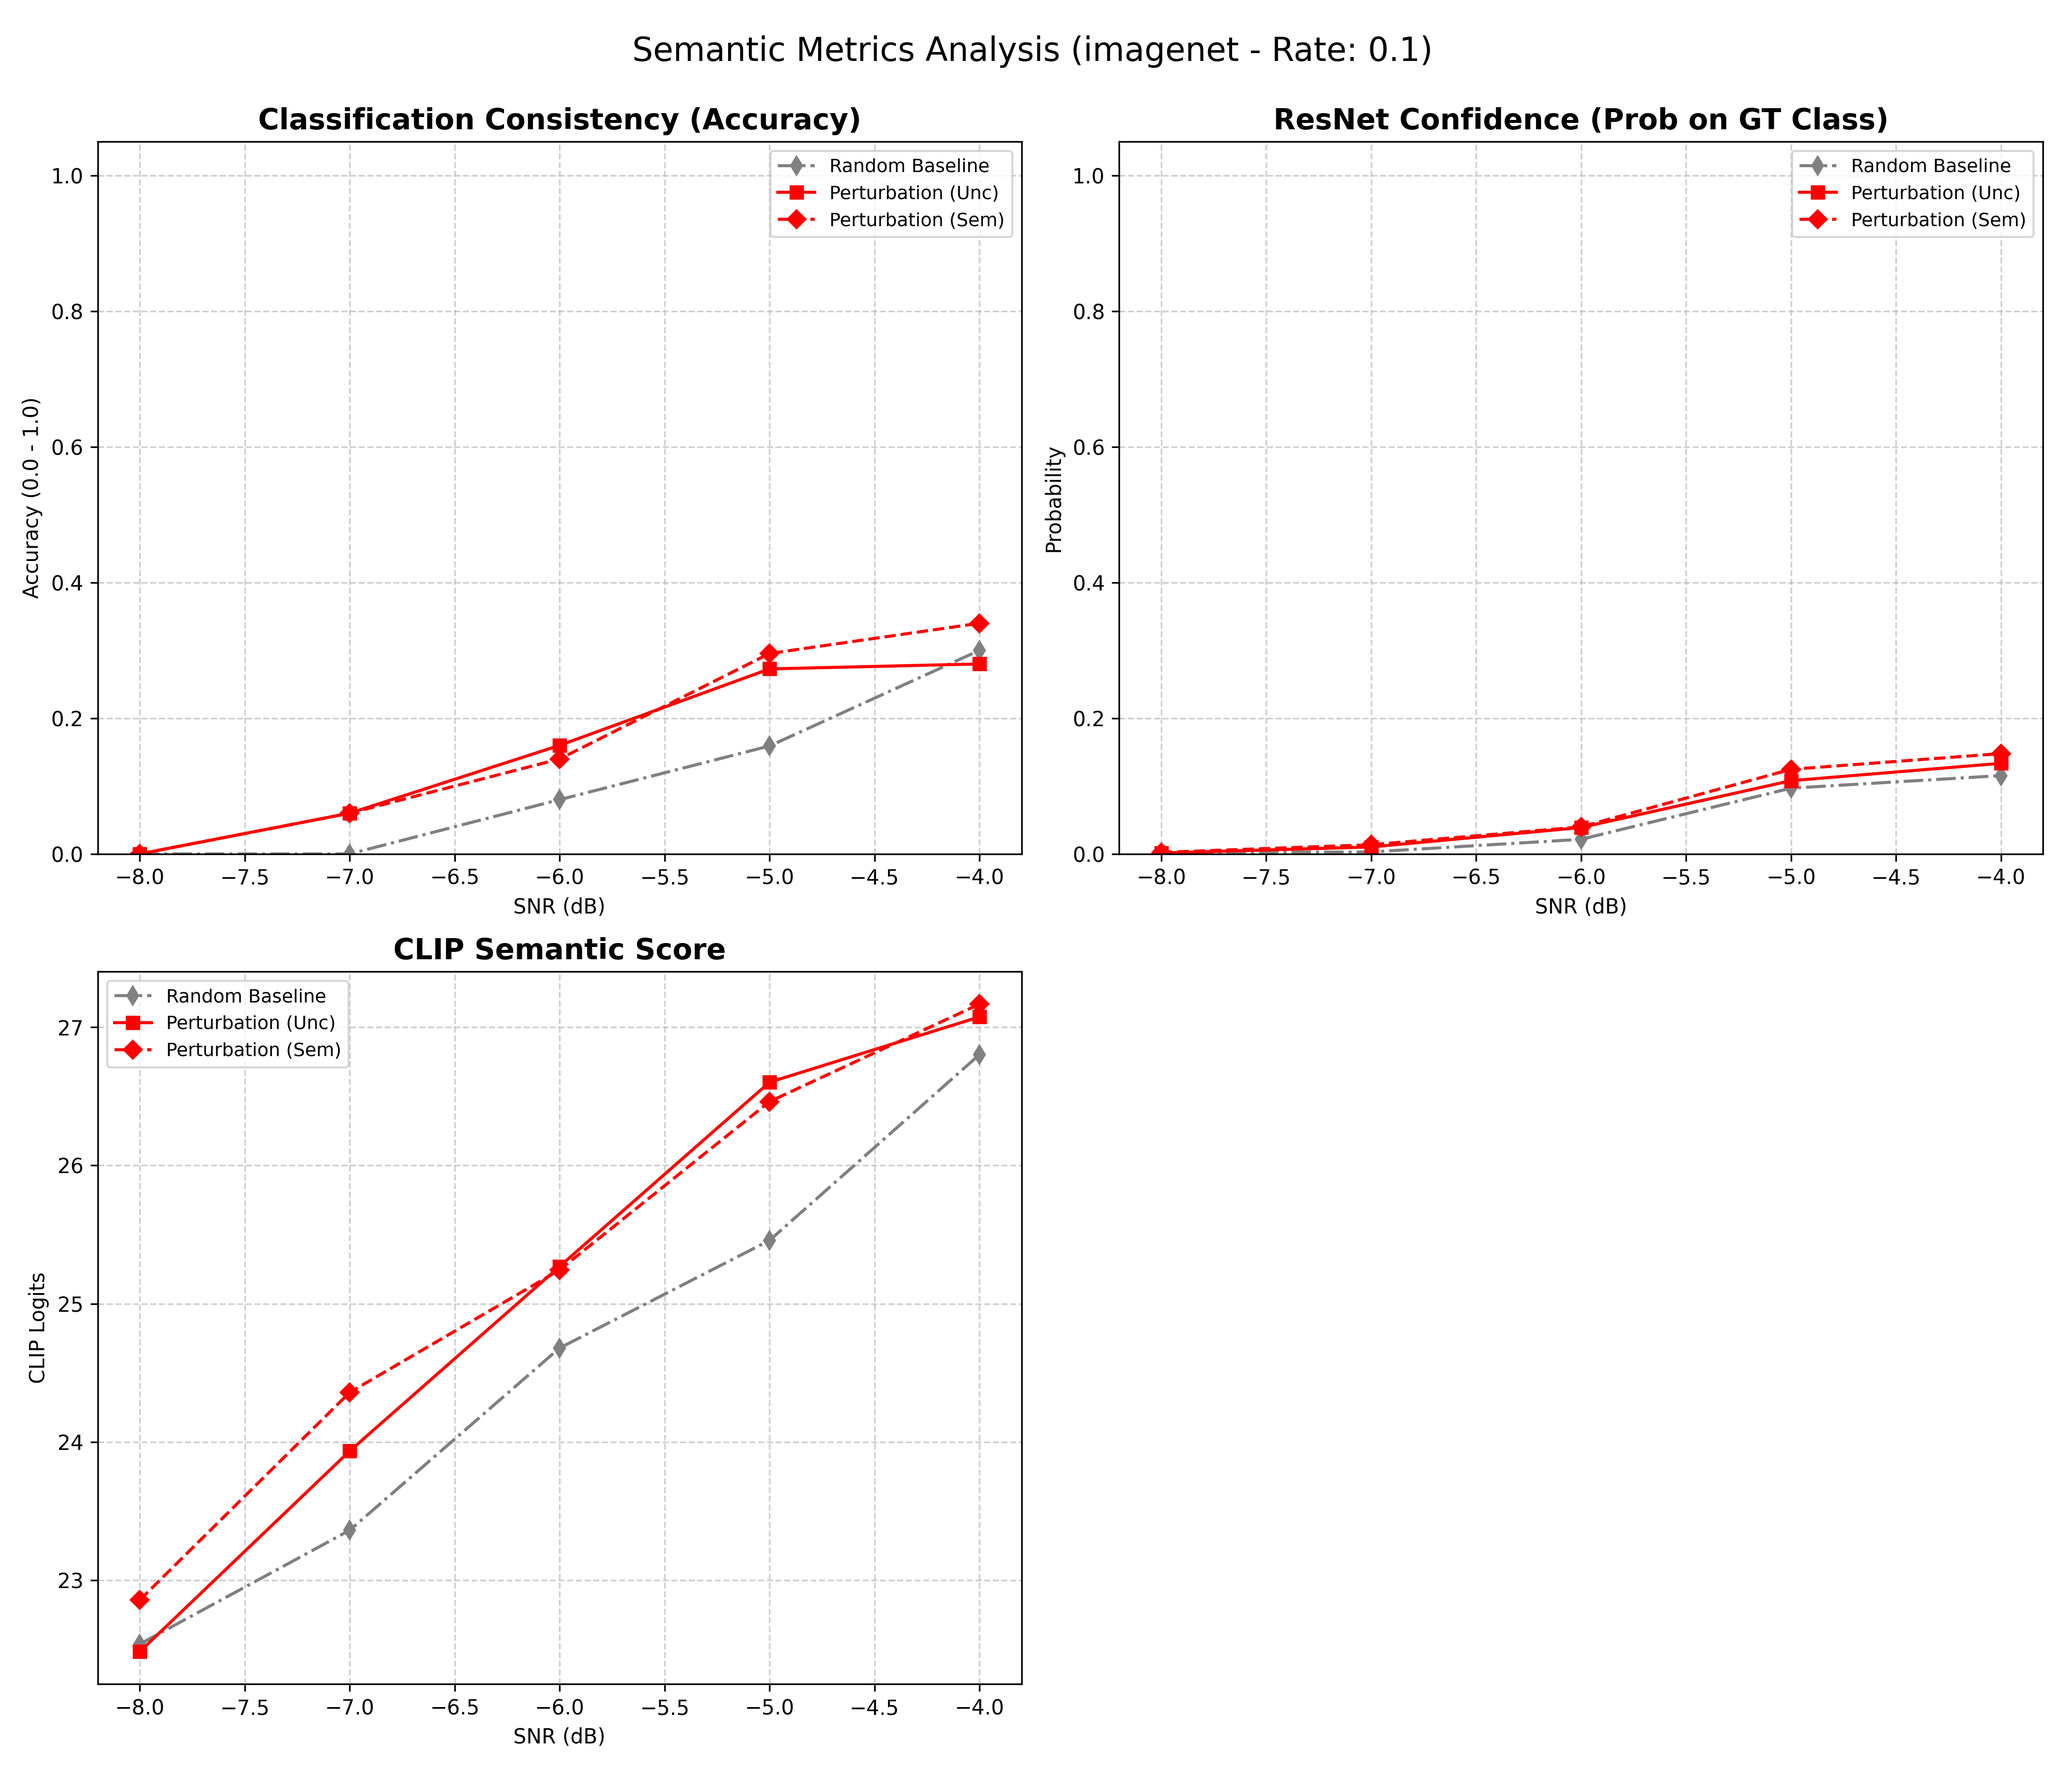
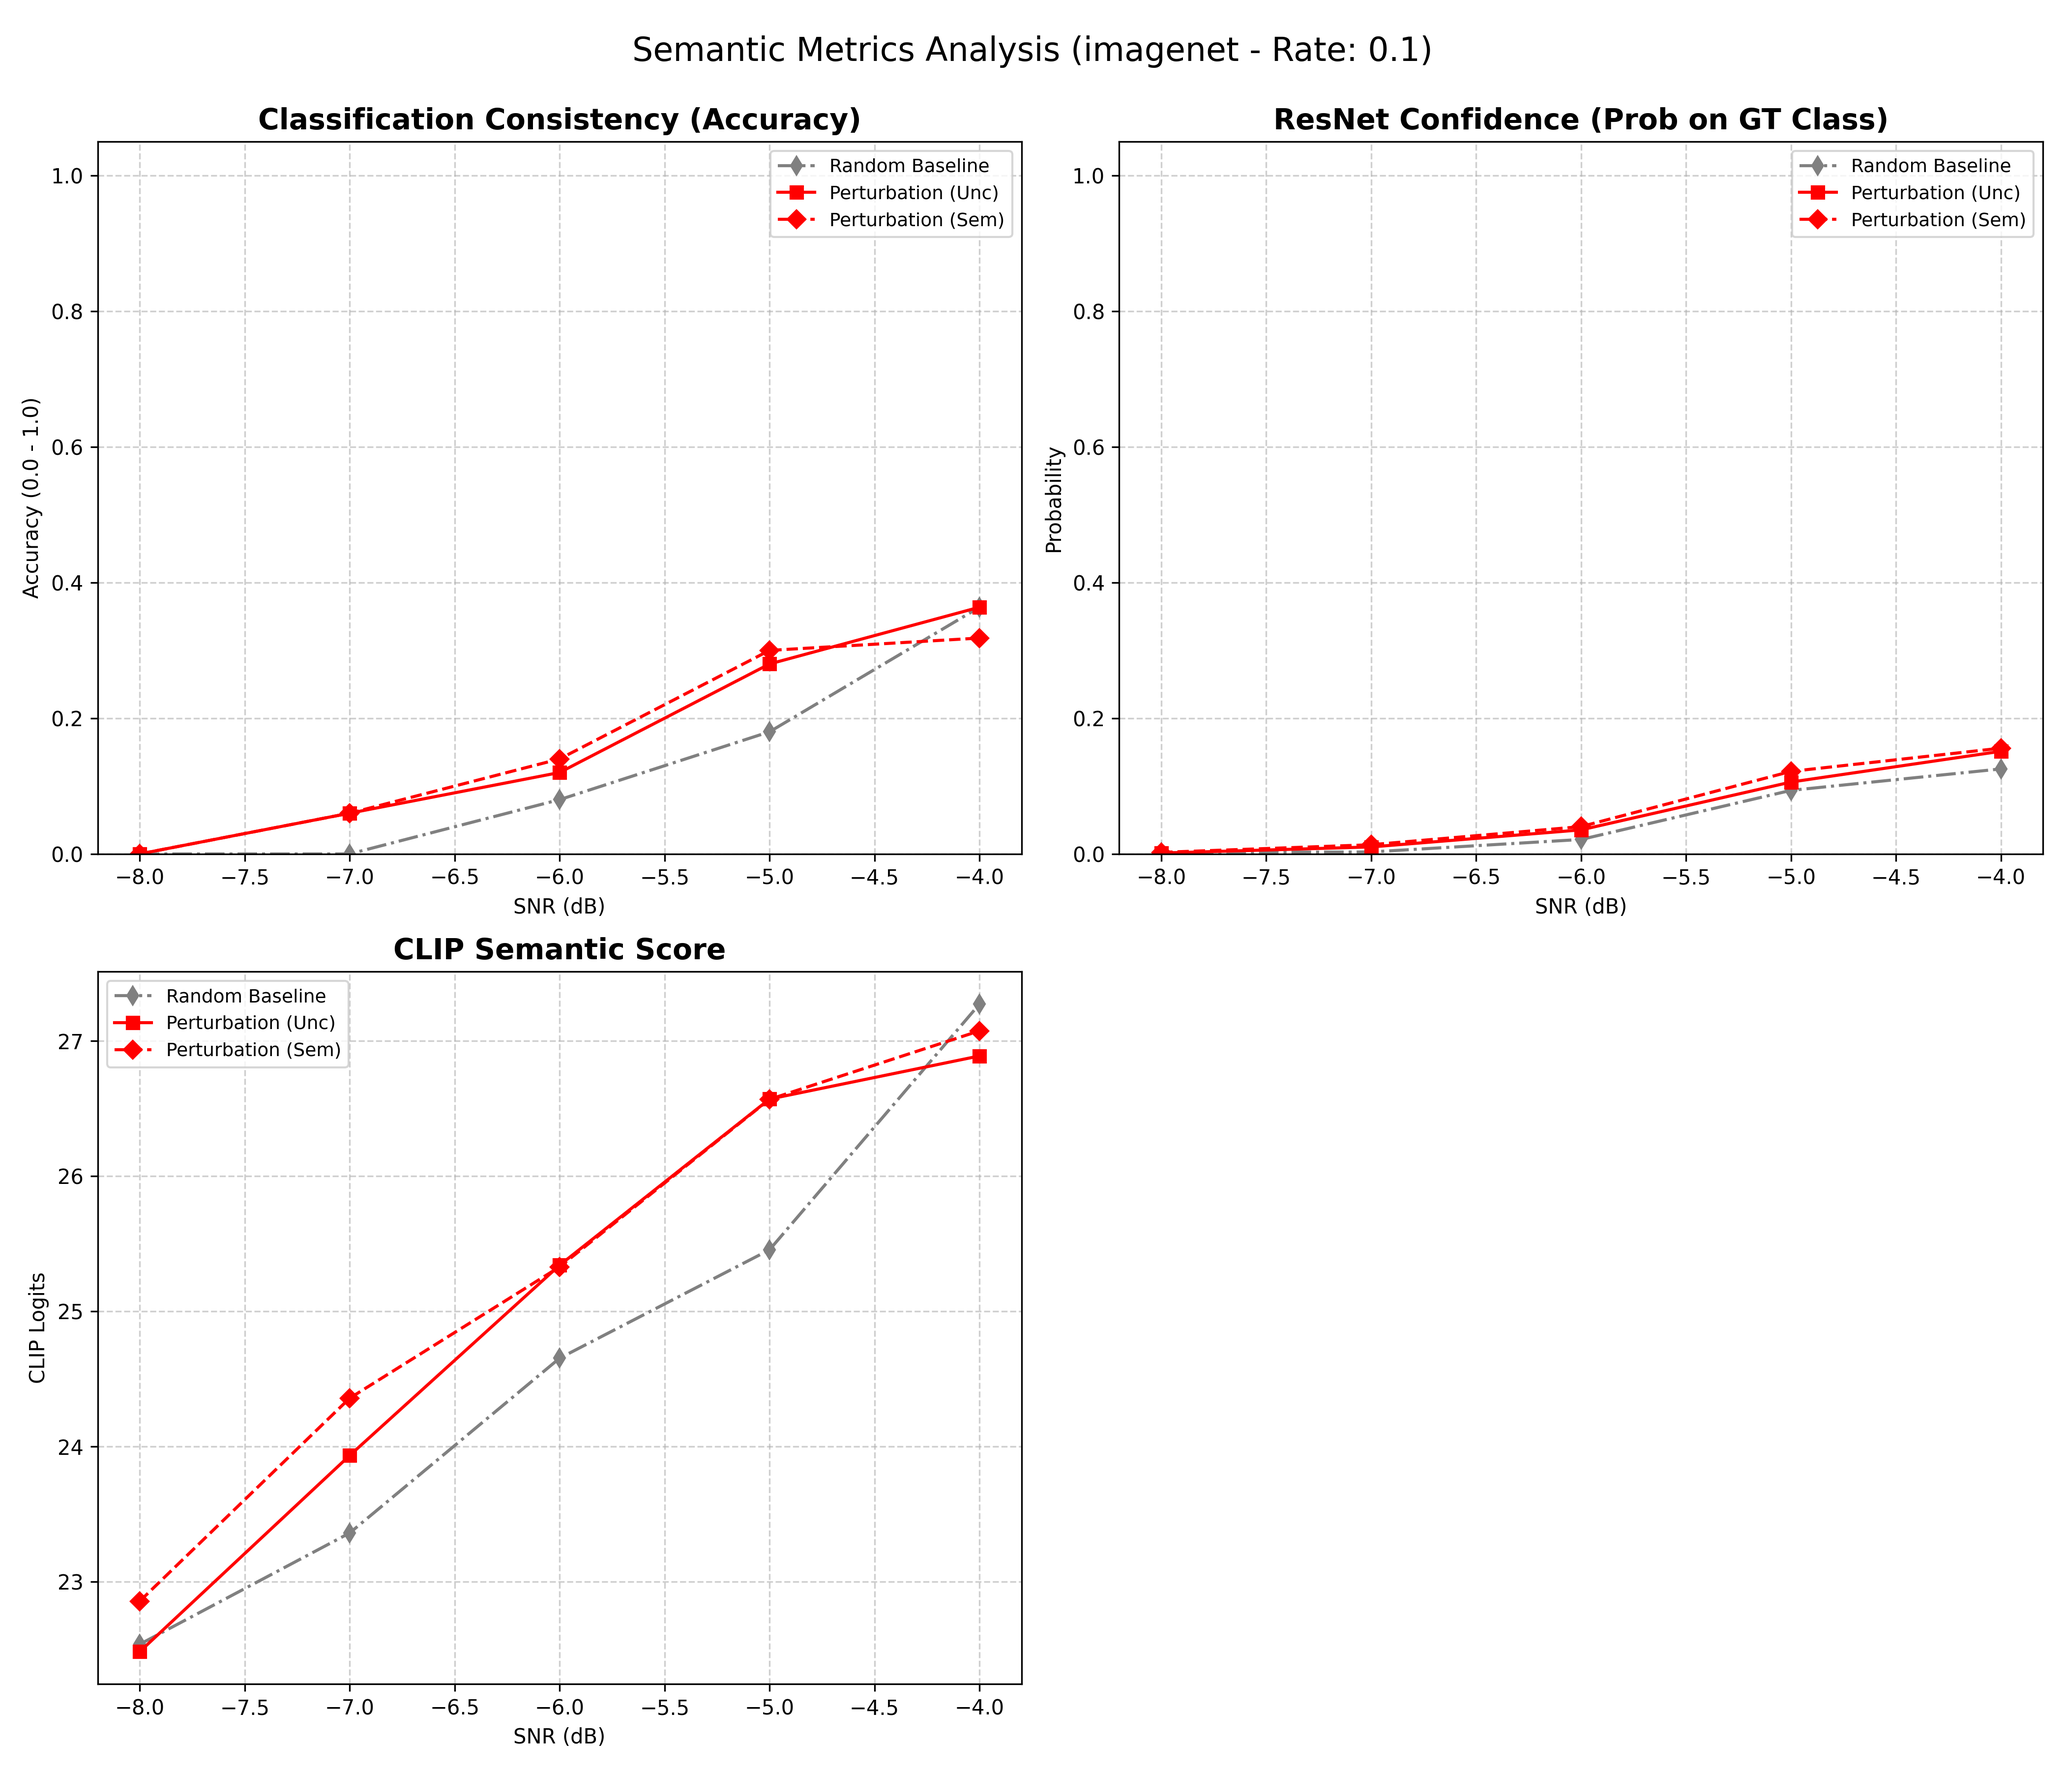
pot_result run.sh

diff --git a/plot_result.py b/plot_result.py
@@ -11,7 +11,7 @@ import matplotlib.pyplot as plt
 # 1. データセットとディレクトリ設定
 # 例: results_retrans_comparison\ffhq_demo\...
 DATASET = "ffhq_demo" 
-DATASET = "imagenet"
+# DATASET = "imagenet"
 
 BASE_DIR = "results_retrans_comparison"
 ROOT_DIR = os.path.join(BASE_DIR, DATASET)
@@ -19,11 +19,20 @@ ROOT_DIR = os.path.join(BASE_DIR, DATASET)
 # 2. プロットしたいSNRのリスト (None または [] なら見つかったもの全て表示)
 # 例: [-7, -4, -1, 2] など。メインスクリプトの出力に合わせて調整してください。
 TARGET_SNRS = [-8, -7, -6, -5, -4] 
-TARGET_SNRS = [-8, -7,-6,-4]
+TARGET_SNRS = []
 
 # 3. プロットしたい再送率 (Retrans_rate) のリスト
 # None または [] の場合は、見つかった全てのレートについて個別にプロットを作成します
 TARGET_RATES = [0.1]
+
+# --- [追加機能] 拡張パラメータでのフィルタリング設定 ---
+# 指定した exp (expansion_factor) や gam (gamma) のファイルのみを抽出します。
+# None または [] (空リスト) の場合は、フィルタリングせず全て対象とします。
+
+TARGET_EXPS = [2.0]     # 例: [2.0] または None
+TARGET_GAMS = [0.3]     # 例: [0.3, 0.7] または None
+
+# -----------------------------------------------------
 
 # 4. プロットしたい手法のリスト (JSONのキーに完全一致させる)
 # main_diffcom_retransmission.py が出力するキーに対応
@@ -85,17 +94,24 @@ def load_summary_data_recursive():
     print(f"Root Directory: {ROOT_DIR}")
     print(f"Search Pattern: {search_pattern}")
     
+    # フィルタ設定の表示
+    if TARGET_EXPS: print(f"Filtering by EXPS: {TARGET_EXPS}")
+    if TARGET_GAMS: print(f"Filtering by GAMS: {TARGET_GAMS}")
+    
     files = glob.glob(search_pattern, recursive=True)
     print(f"Found {len(files)} files.")
 
     # 構造: { rate: { snr: { method: metrics } } }
     data_store = {}
 
-    # 正規表現: 
-    # SNR: 負の数や小数に対応 (-7, -1.5, 10)
-    # Rate: 小数に対応 (0.1, 0.05)
+    # 正規表現コンパイル
     regex_snr = re.compile(r"SNR(-?\d+(?:\.\d+)?)")
     regex_rate = re.compile(r"Retrans_rate_(\d+(?:\.\d+)?)")
+    
+    # 追加パラメータ用の正規表現
+    # _exp2.0 や _gam0.3 のような形式を想定
+    regex_exp = re.compile(r"_exp(\d+(?:\.\d+)?)")
+    regex_gam = re.compile(r"_gam(\d+(?:\.\d+)?)")
 
     for fpath in files:
         filename = os.path.basename(fpath)
@@ -114,7 +130,31 @@ def load_summary_data_recursive():
             continue
         rate = float(match_rate.group(1))
 
-        # フィルタリング
+        # 3. 追加パラメータ(exp, gam)の抽出とフィルタリング
+        # ファイル名にパラメータが含まれていない場合は、フィルタリング条件が指定されていなければパスさせる
+        
+        # --- Exp (Expansion Factor) ---
+        match_exp = regex_exp.search(filename)
+        current_exp = float(match_exp.group(1)) if match_exp else None
+        
+        # TARGET_EXPSが指定されている場合、一致しなければスキップ
+        if TARGET_EXPS:
+            # ファイルにexpが書いてない、または値がリストに含まれない場合はスキップ
+            if current_exp is None or current_exp not in TARGET_EXPS:
+                # print(f"Skipping {filename} (Exp mismatch: {current_exp})")
+                continue
+        
+        # --- Gam (Gamma) ---
+        match_gam = regex_gam.search(filename)
+        current_gam = float(match_gam.group(1)) if match_gam else None
+        
+        # TARGET_GAMSが指定されている場合、一致しなければスキップ
+        if TARGET_GAMS:
+            if current_gam is None or current_gam not in TARGET_GAMS:
+                # print(f"Skipping {filename} (Gam mismatch: {current_gam})")
+                continue
+
+        # 基本フィルタリング
         if TARGET_SNRS and snr not in TARGET_SNRS:
             continue
         if TARGET_RATES and rate not in TARGET_RATES:
@@ -144,7 +184,7 @@ def load_summary_data_recursive():
 
 def plot_custom_metrics(data_store):
     if not data_store:
-        print("表示対象のデータが見つかりませんでした。パスやファイル名、DATASET設定を確認してください。")
+        print("表示対象のデータが見つかりませんでした。パスやフィルタ設定(SNR, Rate, Exp, Gam)を確認してください。")
         return
 
     # 見つかったレートごとにグラフを作成
@@ -170,8 +210,19 @@ def plot_custom_metrics(data_store):
         fig, axes = plt.subplots(rows, cols, figsize=(15, 5 * rows))
         axes = axes.flatten() if num_metrics > 1 else [axes]
         
-        # タイトルにレートとデータセットを表示
-        fig.suptitle(f"Comparison Metrics ({DATASET} - Rate: {rate})", fontsize=16)
+        # タイトル生成
+        title_str = f"Comparison ({DATASET} - Rate: {rate})"
+        # フィルタリング条件をタイトルに追記 (単一指定の場合などわかりやすく)
+        cond_strs = []
+        if TARGET_EXPS and len(TARGET_EXPS) == 1:
+            cond_strs.append(f"Exp:{TARGET_EXPS[0]}")
+        if TARGET_GAMS and len(TARGET_GAMS) == 1:
+            cond_strs.append(f"Gam:{TARGET_GAMS[0]}")
+        
+        if cond_strs:
+            title_str += " [" + ", ".join(cond_strs) + "]"
+
+        fig.suptitle(title_str, fontsize=16)
 
         for idx, metric in enumerate(METRICS):
             ax = axes[idx]
@@ -209,8 +260,14 @@ def plot_custom_metrics(data_store):
         plt.tight_layout()
         plt.subplots_adjust(top=0.92) 
 
-        # ファイル名にデータセットとレートを含めて保存
-        save_name = f'snr_metrics_{DATASET}_rate_{rate}.png'
+        # ファイル名生成
+        save_name = f'snr_metrics_{DATASET}_rate_{rate}'
+        if TARGET_EXPS and len(TARGET_EXPS) == 1:
+            save_name += f'_exp{TARGET_EXPS[0]}'
+        if TARGET_GAMS and len(TARGET_GAMS) == 1:
+            save_name += f'_gam{TARGET_GAMS[0]}'
+        save_name += '.png'
+        
         plt.savefig(save_name, dpi=300)
         print(f"グラフを保存しました: {save_name}")
         

diff --git a/main_diffcom_retransmission.py b/main_diffcom_retransmission.py
@@ -832,18 +832,41 @@ def main():
     
     dataloader = get_test_loader(config.testsets_path, batch_size=config.batch_size, shuffle=False)
     
-    model_config = dict(
-        model_path=config.model_path,
-        num_channels=128,
-        num_res_blocks=1,
-        attention_resolutions="16",
-    ) if config.model_name == 'ffhq_10m' \
-        else dict(
-        model_path=config.model_path,
-        num_channels=256,
-        num_res_blocks=2,
-        attention_resolutions="8,16,32",
-    )
+    
+    # モデル名に応じた設定の分岐
+    if config.model_name == 'ffhq_10m':
+        model_config = dict(
+            model_path=config.model_path,
+            num_channels=128,
+            num_res_blocks=1,
+            attention_resolutions="16",
+        )
+    # ▼▼▼ LSUN Bedroom用設定を追加 (ファイル名は適宜合わせてください) ▼▼▼
+    elif config.model_name == 'lsun_uncond_100M_1200K_bs128': 
+        model_config = dict(
+            model_path=config.model_path,
+            image_size=256,
+            num_channels=128,           # LSUNモデルの仕様
+            num_res_blocks=2,           # LSUNモデルの仕様
+            num_heads=1,                # LSUNモデルの仕様
+            learn_sigma=True,           # LSUNモデルの仕様
+            use_scale_shift_norm=False, # LSUNモデルの仕様
+            attention_resolutions="16", # LSUNモデルの仕様
+            diffusion_steps=1000,       # DiffComの標準に合わせるかモデルに合わせる
+            noise_schedule="linear",    # LSUNモデルはlinear
+            rescale_learned_sigmas=False,
+            rescale_timesteps=False,
+        )
+    # ▲▲▲ 追加ここまで ▲▲▲
+    else:
+        # ImageNet等のデフォルト設定
+        model_config = dict(
+            model_path=config.model_path,
+            num_channels=256,
+            num_res_blocks=2,
+            attention_resolutions="8,16,32",
+        )
+    
     args_unet = utils_model.create_argparser(model_config).parse_args([])
     unet, diffusion = create_model_and_diffusion(
         **args_to_dict(args_unet, model_and_diffusion_defaults().keys()))

diff --git a/calc_similarity.py b/calc_similarity.py
@@ -171,7 +171,7 @@ def extract_dino_feature(model, inputs):
 if __name__ == "__main__":
     # 計算対象のディレクトリパスを指定
     # 必要に応じてパスを書き換えてください
-    target_results_path = r"results_retrans_comparison/imagenet/diffcom/djscc_2/awgn_-6dB/Retrans_rate_0.1_Comparison_both_exp2.0_gam0.3_zeta0.3_seed22"
+    target_results_path = r"results_retrans_comparison/imagenet/diffcom/djscc_2/awgn_-8dB/Retrans_rate_0.1_Comparison_both_exp5.0_gam0.7_zeta0.3_seed22"
     
     # 使用するモデル:
     # 一般的な比較には "facebook/dinov2-base" が推奨されます。

diff --git a/calc_others.py b/calc_others.py
@@ -150,7 +150,7 @@ def calculate_semantic_metrics(base_path, gt_labels_json=None):
 
 if __name__ == "__main__":
     # ここに解析したい結果フォルダのパスを入れてください
-    target_path = r"results_retrans_comparison/imagenet/diffcom/djscc_2/awgn_-7dB/Retrans_rate_0.1_Comparison_both_exp2.0_gam0.3_zeta0.3_seed22"
+    target_path = r"results_retrans_comparison/imagenet/diffcom/djscc_2/awgn_-6dB/Retrans_rate_0.1_Comparison_both_exp5.0_gam0.7_zeta0.3_seed22"
     
     if os.path.exists(target_path):
         calculate_semantic_metrics(target_path)

diff --git a/vit_attention_heatmap.py b/vit_attention_heatmap.py
@@ -140,4 +140,6 @@ def visualize_attention_heatmap(image_path):
 if __name__ == "__main__":
     path = "testsets/ffhq_demo/69903.png"
     path = "testsets/imagenet/ILSVRC2012_subset_00000001.png"
+    path = "val2017/000000565776.jpg"
+    path = "testsets/lsun_bedroom/bedroom_0000005.png"
     visualize_attention_heatmap(path)

diff --git a/README.md b/README.md
@@ -122,12 +122,12 @@ _Visuals_: visuals/ フォルダ内に、以下の画像が保存されます。
 
 ## 4. 実験結果
 ### FFHQデータセット50枚
-![normal metric](imgs/snr_metrics_ffhq_demo_rate_0.1.png)
+![normal metric](imgs/snr_metrics_ffhq_demo_rate_0.1_exp2.0_gam0.3.png)
 
 ![id loss](imgs/id_metrics_ffhq_demo_rate_0.1.png)
 
 ### ImageNet subsetデータセット50枚
-![normal metric imagenet](imgs/snr_metrics_imagenet_rate_0.1.png)
+![normal metric imagenet](imgs/snr_metrics_imagenet_rate_0.1_exp2.0_gam0.3.png)
 ## 引用
 @article{wang2025diffcom,
   title={DiffCom: Channel Received Signal Is a Natural Condition to Guide Diffusion Posterior Sampling},
